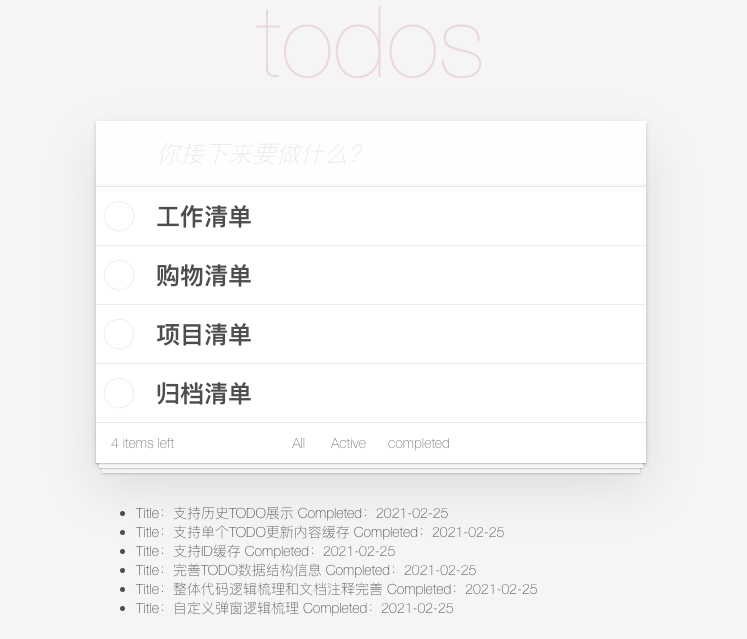
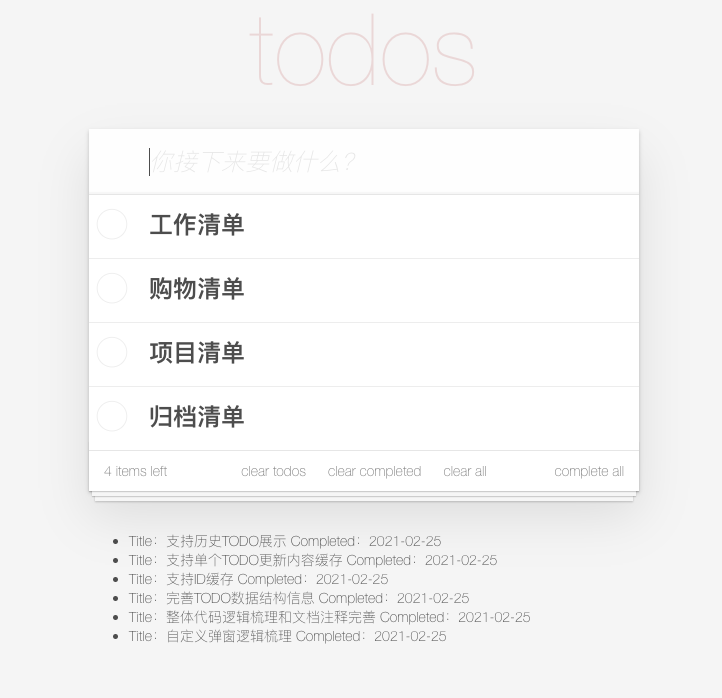
feat: 支持批量处理

diff --git a/src/views/Todo.vue b/src/views/Todo.vue
@@ -6,7 +6,7 @@
         <!-- 输入备忘内容，按 Enter 键时触发添加 -->
         <input class="new-todo" placeholder="你接下来要做什么？" v-model="newTodo" v-autofocus @keyup.enter="addTodo" />
       </header>
-      <section class="main" v-show="todos.length">
+      <section class="main" v-show="todos.length || completedTodos.length">
         <!-- 操作过渡动画 -->
         <transition-group
           name="staggered-fade"
@@ -24,33 +24,27 @@
             <todo-item v-bind.sync="todo" @delete="removeTodo(todo)" @modified="saveData(todo)"></todo-item>
           </li>
         </transition-group>
-        <footer class="footer" v-show="todos.length">
+        <footer class="footer">
           <!-- 未完成数量，支持单复数显示 -->
           <span class="todo-count">
             <strong>{{ remaining }}</strong> {{ remaining | pluralize }} left
           </span>
           <!-- 备忘筛选 -->
           <ul class="filters">
-            <li>
-              <router-link :to="{ query: { state: '' } }" active-class="selected" exact>All</router-link>
-            </li>
-            <li>
-              <router-link :to="{ query: { state: 'active' } }" active-class="selected" exact> Active</router-link>
-            </li>
-            <li>
-              <router-link :to="{ query: { state: 'completed' } }" active-class="selected" exact>completed</router-link>
-            </li>
+            <li><a style="cursor: pointer" @click="clearTodos">clear todos</a></li>
+            <li><a style="cursor: pointer" @click="clearCompletedTodos">clear completed</a></li>
+            <li><a style="cursor: pointer" @click="clearAllTodos">clear all</a></li>
           </ul>
-          <!-- 一键删除已完成的备忘按钮 -->
-          <button class="clear-completed" @click="removeCompleted" v-show="todos.length > remaining">
-            Clear completed
+          <!-- 一键完成按钮 -->
+          <button class="clear-completed" @click="completeAllTodo" v-show="remaining">
+            complete all
           </button>
         </footer>
       </section>
     </section>
     <section>
       <ul>
-        <li v-for="todo in allCompletedTodos" :key="todo.id">
+        <li v-for="todo in completedTodos" :key="todo.id">
           Title：{{ todo.title }} Completed：{{ todo.complete_time.substring(0, 10) }}
         </li>
       </ul>
@@ -70,7 +64,7 @@ export default {
     return {
       id: localStorage.getItem('todo-id') || 1, // 备忘递增ID
       todos: JSON.parse(localStorage.getItem('todos') || '[]'), // 备忘列表
-      allCompletedTodos: JSON.parse(localStorage.getItem('all-completed-todos') || '[]'), // 弹窗信息
+      completedTodos: JSON.parse(localStorage.getItem('all-completed-todos') || '[]'), // 弹窗信息
       newTodo: '', // 新增的备忘内容
     };
   },
@@ -80,27 +74,18 @@ export default {
       localStorage.setItem('todos', JSON.stringify(newVal));
       localStorage.setItem('todo-id', this.id);
     },
+    completedTodos(newVal) {
+      localStorage.setItem('all-completed-todos', JSON.stringify(newVal));
+    },
   },
   computed: {
     // 计算剩余未完成的备忘
     remaining() {
       return this.todos.filter(x => !x.completed).length;
     },
-    // 筛选备忘
+    // 根据输入筛选备忘
     computedTodos() {
-      // 先按状态过滤
-      const state = this.$route.query.state;
-      const filterTodos = this.todos.filter(x => {
-        if (state === 'active') {
-          return !x.completed;
-        } else if (state === 'completed') {
-          return x.completed;
-        } else {
-          return true;
-        }
-      });
-      // 再按输入内容过滤
-      return filterTodos.filter(item => item.title.toLowerCase().indexOf(this.newTodo.toLowerCase()) !== -1);
+      return this.todos.filter(item => item.title.toLowerCase().indexOf(this.newTodo.toLowerCase()) !== -1);
     },
   },
   methods: {
@@ -123,9 +108,28 @@ export default {
       const index = this.todos.findIndex(x => x.id === todo.id);
       this.todos.splice(index, 1);
     },
-    // 删除已完成的备忘
-    removeCompleted() {
-      this.todos = this.todos.filter(x => !x.completed);
+    // 一键完成所有备忘
+    completeAllTodo() {
+      this.completedTodos = this.todos
+        .map(x => {
+          x.complete_time = new Date().Format('yyyy-MM-dd hh:mm:ss');
+          return x;
+        })
+        .concat(this.completedTodos);
+      this.todos = [];
+    },
+    // 清空当前 todos
+    clearTodos() {
+      this.todos = [];
+    },
+    // 清空已完成 todos
+    clearCompletedTodos() {
+      this.completedTodos = [];
+    },
+    // 清空所有 todos
+    clearAllTodos() {
+      this.todos = [];
+      this.completedTodos = [];
     },
     // 进入中
     beforeEnter(el) {
@@ -154,10 +158,9 @@ export default {
     // 单个备忘修改时触发更新，写入缓存
     saveData(todo) {
       if (todo.completed) {
-        // 修改备忘状态
-        this.allCompletedTodos.unshift(todo);
-        this.removeTodo(todo); // 删除操作，也会触发缓存内容缓存
-        localStorage.setItem('all-completed-todos', JSON.stringify(this.allCompletedTodos));
+        // 修改备忘状态（自动触发更新缓存）
+        this.completedTodos.unshift(todo);
+        this.removeTodo(todo);
       } else {
         // 修改备忘内容
         localStorage.setItem('todos', JSON.stringify(this.todos));
